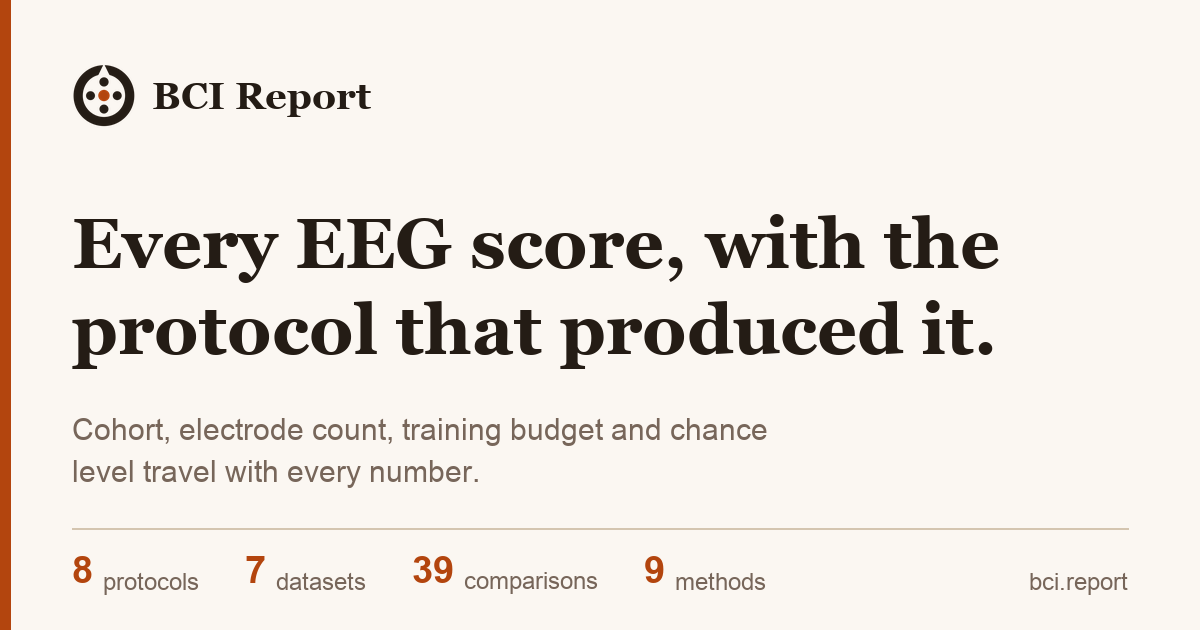
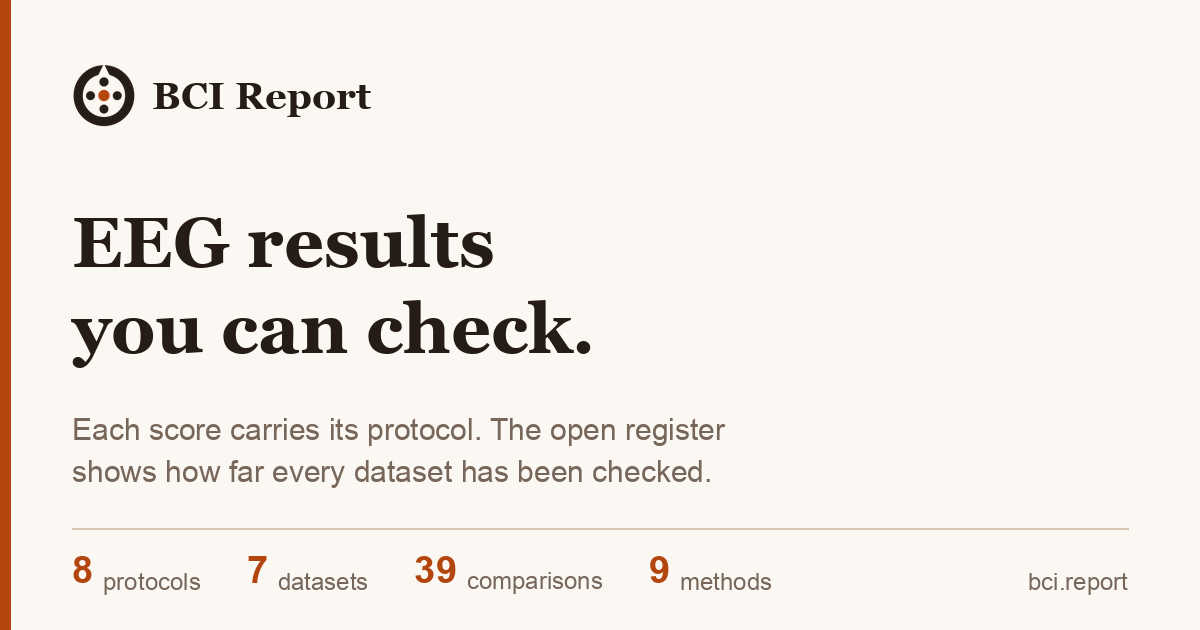
Home headline: EEG results you can check; the lede points to the open register; share card redrawn

diff --git a/site/src/data/i18n.ts b/site/src/data/i18n.ts
@@ -286,7 +286,7 @@ export const chrome: Record<Locale, Chrome> = {
     footerReleases: 'Releases & downloads',
     downloadData: 'Download data ↓',
     englishMark: '',
-    shareAlt: c => `${site.name}: Every EEG score, with the protocol that produced it. Core benchmark matrix: ` +
+    shareAlt: c => `${site.name}: EEG results you can check. Core benchmark matrix: ` +
       `${c.protocols} protocols, ${c.datasets} datasets, ${c.comparisons} comparisons, ${c.methods} methods.`,
     footerCode: 'Code on GitHub',
     footerMirror: 'Data mirror on Hugging Face',
@@ -309,7 +309,7 @@ export const chrome: Record<Locale, Chrome> = {
     footerReleases: '发布记录与下载',
     downloadData: '下载数据 ↓',
     englishMark: '（英文）',
-    shareAlt: c => `${site.name}：每一个 EEG 分数，都附带产生它的协议。核心基准矩阵：` +
+    shareAlt: c => `${site.name}：经得起核对的 EEG 结果。核心基准矩阵：` +
       `${c.protocols} 个协议、${c.datasets} 个数据集、${c.comparisons} 项比较、${c.methods} 种方法。`,
     footerCode: 'GitHub 上的代码',
     footerMirror: 'Hugging Face 数据镜像',
@@ -451,13 +451,14 @@ export const home = {
     // No date and no version label anywhere in visible text (owner decision 2026-10-08): the
     // release log (/releases/) is where dates live; check-workbench.mjs refuses one elsewhere.
     eyebrow: 'Open EEG evaluation',
-    h1: 'Every EEG score, with the protocol that produced it.',
+    h1: 'EEG results you can check.',
     // What the protocol pages carry, counted from the data: the core matrix's methods
     // and the further frozen encoders, named apart and never summed (review of 2026-10-06).
     lede: (c: HomeCounts) =>
       `${c.protocols} fixed protocols on ${c.datasets} public datasets carry the core matrix’s ${c.methods} decoding methods ` +
       `and, beside them, ${c.added} foundation encoders as frozen probes. ` +
-      `Questions beyond the matrix cover transfer, calibration and model adaptation, reliability, clinical groups and data quality, signals other than scalp EEG, and small pilot studies.`,
+      `Questions beyond the matrix cover transfer, calibration and model adaptation, reliability, clinical groups and data quality, signals other than scalp EEG, and small pilot studies. ` +
+      `The open register lists every EEG dataset and model we know of, with how far each has been checked.`,
     // A visible caption: the four counts are the core matrix's, not the site's.
     statsCaption: 'Core matrix',
     // The line under them: the v9 encoders on the same protocols, a count of their own, never added in.
@@ -603,11 +604,12 @@ export const home = {
       '公开 EEG 解码结果，每一项都附带产生它的协议：运动想象、4 与 8 电极 SSVEP、' +
       'P300 与语义 ERP、认知负荷、睡眠分期，以及空闲误触发；另有首批 fNIRS 与皮层内神经元放电基线。',
     eyebrow: '公开 EEG 评测',
-    h1: '每一个 EEG 分数，都附带产生它的协议。',
+    h1: '经得起核对的 EEG 结果。',
     lede: (c: HomeCounts) =>
       `在 ${c.protocols} 个固定协议、${c.datasets} 个公开数据集上，既有核心矩阵的 ${c.methods} 种解码方法，` +
       `也有以冻结探针方式运行的 ${c.added} 个基础模型编码器。` +
-      `矩阵之外的问题页涵盖迁移、校准与模型适配、可靠性、临床分组与数据质量、头皮 EEG 之外的信号，以及小规模试点研究。`,
+      `矩阵之外的问题页涵盖迁移、校准与模型适配、可靠性、临床分组与数据质量、头皮 EEG 之外的信号，以及小规模试点研究。` +
+      `开放登记册列出我们知道的每个 EEG 数据集和模型，并写明每一项核验到了哪一步。`,
     statsCaption: '核心矩阵',
     statsAdded: ['另有 ', ' 个基础模型编码器在同样的协议上（冻结）→'] as const,
     stats: { protocols: '协议', datasets: '数据集', comparisons: '比较', methods: '方法' },

diff --git a/site/scripts/generate-brand-assets.py b/site/scripts/generate-brand-assets.py
@@ -69,9 +69,9 @@ FONTS = {
     ("sans", False): "/System/Library/Fonts/Supplemental/Arial.ttf",
 }
 
-HEADLINE = ("Every EEG score, with the", "protocol that produced it.")
-DEK = ("Cohort, electrode count, training budget and chance",
-       "level travel with every number.")
+HEADLINE = ("EEG results", "you can check.")
+DEK = ("Each score carries its protocol. The open register",
+       "shows how far every dataset has been checked.")
 
 
 def font(size: int, bold: bool = False, family: str = "sans"):
